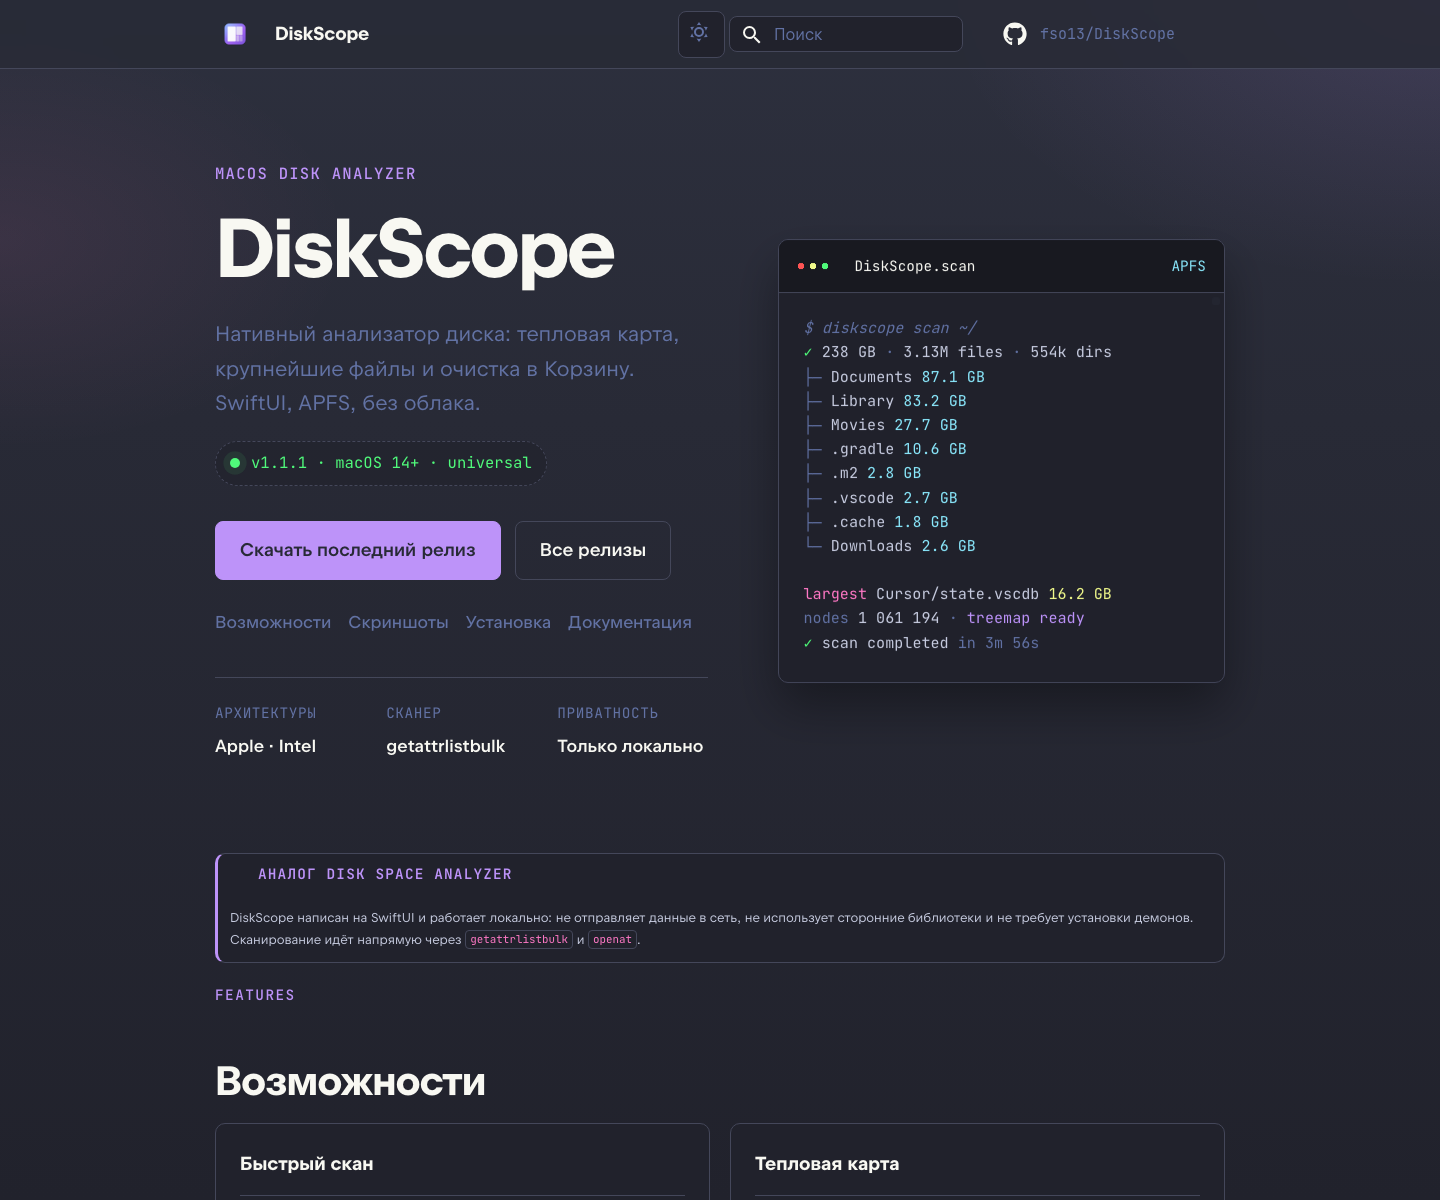
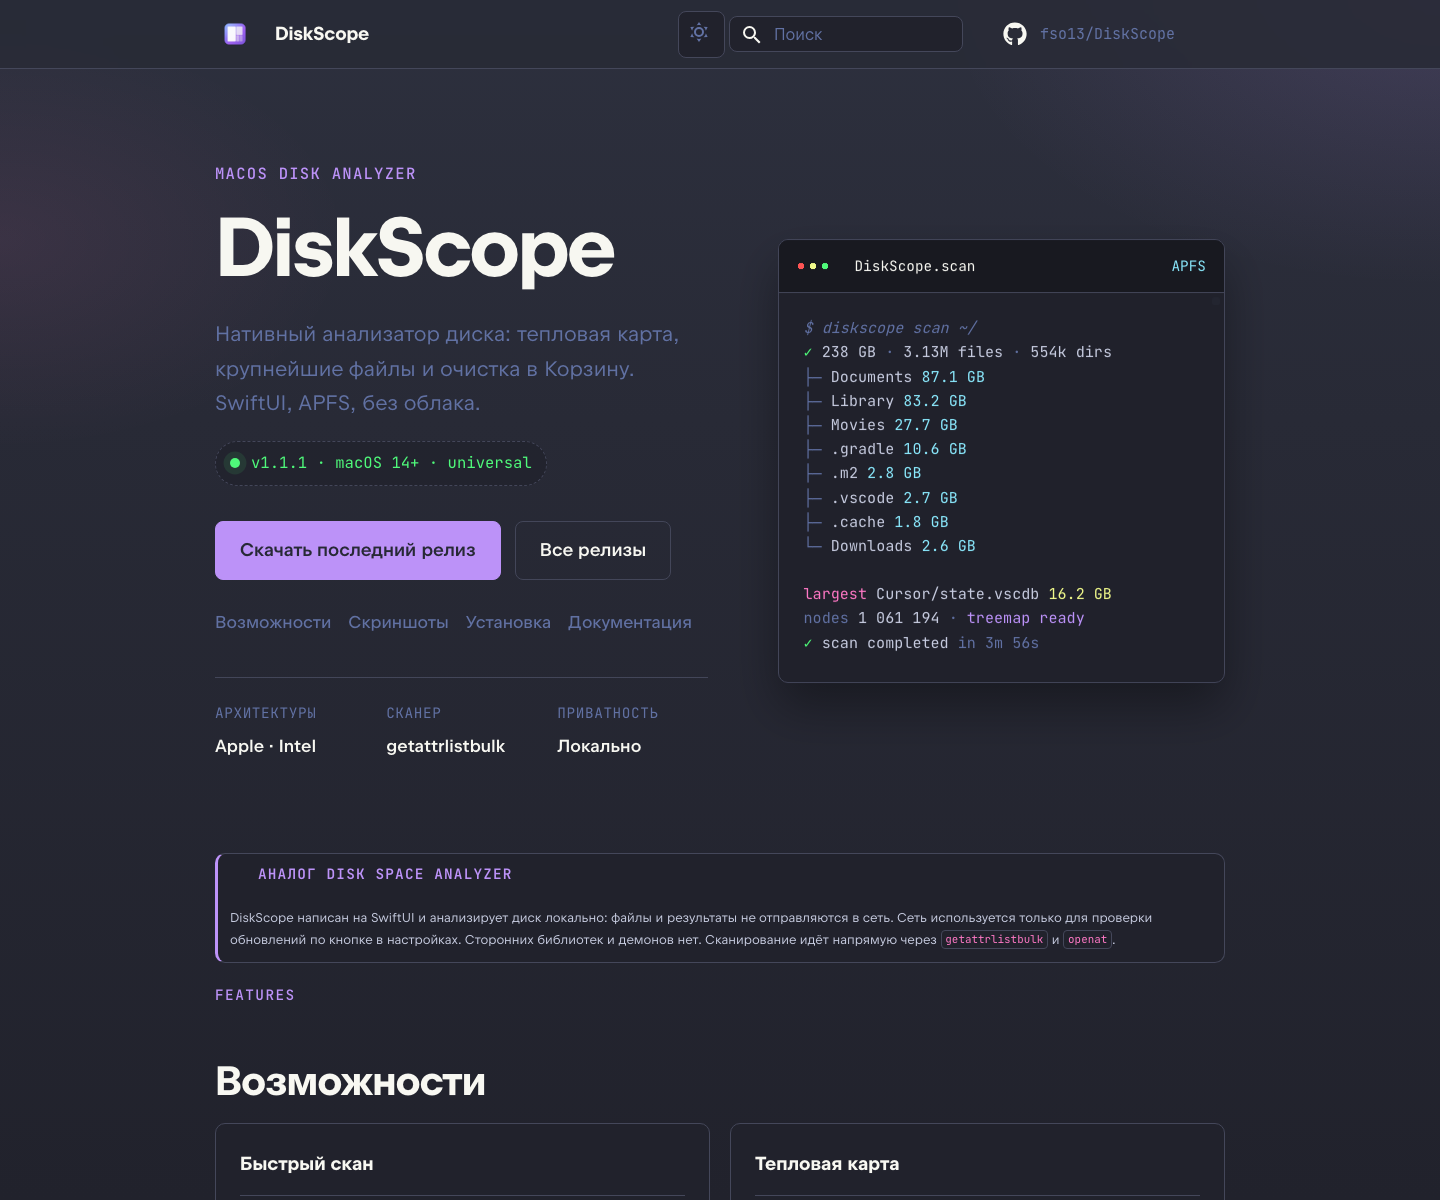
feat: add update checks to settings
Adds a GitHub Releases update checker with idle, checking, up-to-date, available and error states, a direct DMG download button, and version comparison tests. Updates privacy copy to clarify that network access is only used for manual update checks.

diff --git a/Sources/DiskScopeKit/UI/SettingsView.swift b/Sources/DiskScopeKit/UI/SettingsView.swift
@@ -4,6 +4,7 @@ import SwiftUI
 public struct SettingsView: View {
     @AppStorage(AppSettingsKeys.appearance) private var appearance = AppAppearance.system.rawValue
     @AppStorage(AppSettingsKeys.confirmTrash) private var confirmTrash = true
+    @StateObject private var updater = UpdateChecker()
 
     public init() {}
 
@@ -14,13 +15,14 @@ public struct SettingsView: View {
                 VStack(spacing: 14) {
                     appearanceSection
                     scanningSection
+                    updatesSection
                     aboutSection
                     resetRow
                 }
                 .padding(20)
             }
         }
-        .frame(width: 560, height: 600)
+        .frame(width: 560, height: 680)
         .background(Theme.background)
         .preferredColorScheme(AppAppearance(rawValue: appearance)?.colorScheme)
         .tint(Theme.accent)
@@ -113,6 +115,81 @@ public struct SettingsView: View {
         }
     }
 
+    private var updatesSection: some View {
+        SettingsCard(title: "Обновления", symbol: "arrow.triangle.2.circlepath") {
+            HStack(alignment: .center, spacing: 10) {
+                VStack(alignment: .leading, spacing: 3) {
+                    Text(updateTitle)
+                        .font(.system(size: 11.5, weight: .medium))
+                    Text(updateDetail)
+                        .font(.system(size: 10))
+                        .foregroundStyle(.secondary)
+                        .fixedSize(horizontal: false, vertical: true)
+                }
+                Spacer(minLength: 8)
+                updateAction
+            }
+
+            Text("Сеть используется только для этого запроса; файлы и результаты сканирования не отправляются.")
+                .font(.system(size: 10))
+                .foregroundStyle(.tertiary)
+                .fixedSize(horizontal: false, vertical: true)
+        }
+    }
+
+    @ViewBuilder
+    private var updateAction: some View {
+        switch updater.state {
+        case .checking:
+            ProgressView()
+                .controlSize(.small)
+                .frame(width: 86)
+        case .available(let release):
+            Button("Скачать") {
+                NSWorkspace.shared.open(release.downloadURL ?? release.pageURL)
+            }
+            .buttonStyle(.borderedProminent)
+            .controlSize(.small)
+        case .failed:
+            Button("Повторить") {
+                updater.check(currentVersion: version)
+            }
+            .buttonStyle(.bordered)
+            .controlSize(.small)
+        default:
+            Button("Проверить") {
+                updater.check(currentVersion: version)
+            }
+            .buttonStyle(.bordered)
+            .controlSize(.small)
+        }
+    }
+
+    private var updateTitle: String {
+        switch updater.state {
+        case .idle: return "Проверка обновлений"
+        case .checking: return "Проверяем обновления…"
+        case .upToDate: return "Установлена последняя версия"
+        case .available(let release): return "Доступна версия \(release.version)"
+        case .failed: return "Не удалось проверить"
+        }
+    }
+
+    private var updateDetail: String {
+        switch updater.state {
+        case .idle:
+            return "Текущая версия \(version). Запрос выполняется только по кнопке."
+        case .checking:
+            return "Запрашиваем GitHub Releases…"
+        case .upToDate(let current):
+            return "DiskScope \(current) — обновлений нет."
+        case .available:
+            return "Текущая версия \(version). Скачайте DMG и замените приложение."
+        case .failed(let message):
+            return message
+        }
+    }
+
     private var aboutSection: some View {
         SettingsCard(title: "О программе", symbol: "info.circle") {
             SettingsRow(label: "Версия", value: version)
@@ -134,7 +211,7 @@ public struct SettingsView: View {
             .controlSize(.small)
             .font(.system(size: 10.5, weight: .medium))
 
-            Text("DiskScope работает полностью локально и не отправляет данные в сеть.")
+            Text("Сканирование и файлы остаются локальными. Сеть используется только для проверки обновлений.")
                 .font(.system(size: 10))
                 .foregroundStyle(.tertiary)
                 .padding(.top, 1)

diff --git a/Sources/DiskScopeKit/App/UpdateChecker.swift b/Sources/DiskScopeKit/App/UpdateChecker.swift
@@ -1,0 +1,131 @@
+import Combine
+import Foundation
+
+@MainActor
+final class UpdateChecker: ObservableObject {
+    struct Release: Equatable, Identifiable {
+        let version: String
+        let pageURL: URL
+        let downloadURL: URL?
+
+        var id: String { version }
+    }
+
+    enum State: Equatable {
+        case idle
+        case checking
+        case upToDate(String)
+        case available(Release)
+        case failed(String)
+    }
+
+    @Published private(set) var state: State = .idle
+
+    private var task: Task<Void, Never>?
+
+    func check(currentVersion: String) {
+        guard state != .checking else { return }
+        task?.cancel()
+        state = .checking
+
+        task = Task { [weak self] in
+            do {
+                let release = try await Self.fetchLatest(currentVersion: currentVersion)
+                guard !Task.isCancelled else { return }
+                if Self.isNewer(release.version, than: currentVersion) {
+                    self?.state = .available(release)
+                } else {
+                    self?.state = .upToDate(currentVersion)
+                }
+            } catch is CancellationError {
+                return
+            } catch {
+                guard !Task.isCancelled else { return }
+                self?.state = .failed("Не удалось проверить обновления. Проверьте подключение и повторите.")
+            }
+        }
+    }
+
+    static func isNewer(_ candidate: String, than current: String) -> Bool {
+        let lhs = components(candidate)
+        let rhs = components(current)
+        for index in 0..<max(lhs.count, rhs.count) {
+            let left = index < lhs.count ? lhs[index] : 0
+            let right = index < rhs.count ? rhs[index] : 0
+            if left != right { return left > right }
+        }
+        return false
+    }
+
+    private static func components(_ raw: String) -> [Int] {
+        var value = raw.trimmingCharacters(in: .whitespacesAndNewlines)
+        if value.hasPrefix("v") || value.hasPrefix("V") {
+            value.removeFirst()
+        }
+        return value.split(separator: ".").map { part in
+            Int(part.prefix(while: { $0.isNumber })) ?? 0
+        }
+    }
+
+    private static func fetchLatest(currentVersion: String) async throws -> Release {
+        guard let url = URL(string: "https://api.github.com/repos/fso13/DiskScope/releases/latest") else {
+            throw UpdateError.invalidURL
+        }
+
+        var request = URLRequest(url: url)
+        request.timeoutInterval = 15
+        request.setValue("application/vnd.github+json", forHTTPHeaderField: "Accept")
+        request.setValue("2022-11-28", forHTTPHeaderField: "X-GitHub-Api-Version")
+        request.setValue("DiskScope/\(currentVersion)", forHTTPHeaderField: "User-Agent")
+
+        let (data, response) = try await URLSession.shared.data(for: request)
+        guard let http = response as? HTTPURLResponse else {
+            throw UpdateError.invalidResponse
+        }
+        guard (200..<300).contains(http.statusCode) else {
+            throw UpdateError.http(http.statusCode)
+        }
+
+        let payload = try JSONDecoder().decode(GitHubRelease.self, from: data)
+        guard let pageURL = URL(string: payload.htmlURL) else {
+            throw UpdateError.invalidURL
+        }
+
+        let version = payload.tagName.hasPrefix("v")
+            ? String(payload.tagName.dropFirst())
+            : payload.tagName
+        let asset = payload.assets.first { $0.name == "DiskScope-macos-universal.dmg" }
+            ?? payload.assets.first { $0.name.hasSuffix(".dmg") }
+        let downloadURL = asset.flatMap { URL(string: $0.browserDownloadURL) }
+
+        return Release(version: version, pageURL: pageURL, downloadURL: downloadURL)
+    }
+}
+
+private enum UpdateError: Error {
+    case invalidURL
+    case invalidResponse
+    case http(Int)
+}
+
+private struct GitHubRelease: Decodable {
+    let tagName: String
+    let htmlURL: String
+    let assets: [GitHubAsset]
+
+    enum CodingKeys: String, CodingKey {
+        case tagName = "tag_name"
+        case htmlURL = "html_url"
+        case assets
+    }
+}
+
+private struct GitHubAsset: Decodable {
+    let name: String
+    let browserDownloadURL: String
+
+    enum CodingKeys: String, CodingKey {
+        case name
+        case browserDownloadURL = "browser_download_url"
+    }
+}

diff --git a/Tests/DiskScopeKitTests/AppModelTests.swift b/Tests/DiskScopeKitTests/AppModelTests.swift
@@ -182,4 +182,12 @@ final class AppModelTests: XCTestCase {
         XCTAssertEqual(model.progress?.bytes, 1024)
         XCTAssertTrue(model.isScanning)
     }
+
+    func testUpdateVersionComparison() {
+        XCTAssertTrue(UpdateChecker.isNewer("v1.1.2", than: "1.1.1"))
+        XCTAssertFalse(UpdateChecker.isNewer("1.1.1", than: "1.1.1"))
+        XCTAssertTrue(UpdateChecker.isNewer("1.2", than: "1.1.9"))
+        XCTAssertFalse(UpdateChecker.isNewer("1.1.0", than: "1.1.1"))
+        XCTAssertTrue(UpdateChecker.isNewer("2.0.0", than: "1.99.99"))
+    }
 }

diff --git a/Sources/DiskScopeSnapshots/SnapshotsMain.swift b/Sources/DiskScopeSnapshots/SnapshotsMain.swift
@@ -151,7 +151,7 @@ final class SnapshotRenderer {
         let appearance = NSAppearance(named: dark ? .darkAqua : .aqua)
         NSApplication.shared.appearance = appearance
 
-        let settingsSize = CGSize(width: 560, height: 600)
+        let settingsSize = CGSize(width: 560, height: 680)
         let root = SettingsView()
             .frame(width: settingsSize.width, height: settingsSize.height)
         let hosting = NSHostingView(rootView: root)

diff --git a/README.md b/README.md
@@ -30,12 +30,14 @@ https://fso13.github.io/DiskScope/.
 - **Безопасность**: приложение читает только метаданные. Пишет оно лишь
   настройку «последняя папка» в UserDefaults и перемещает выбранные объекты в
   Корзину, выбранную папку или «Фото» — и только по явному подтверждению.
-- **Полностью локально**: нет сетевых запросов, телеметрии и сторонних
+- **Локальный анализ**: файлы и результаты не покидают Mac. Сеть используется
+  только для проверки обновлений по кнопке. Нет телеметрии и сторонних
   зависимостей.
 - **Кастомное окно**: title bar с нативными traffic lights, статусом и
   командной палитрой (`⌘K`).
-- **Настройки приложения** (`⌘,`): тема, подтверждение Корзины и сведения;
-  повторный анализ во время сканирования не запускается.
+- **Настройки приложения** (`⌘,`): тема, подтверждение Корзины, проверка
+  обновлений и сведения; повторный анализ во время сканирования не
+  запускается.
 - Поддержка светлой и тёмной темы, русского интерфейса, клавиатурных сокращений.
 
 | Крупнейшие | Типы файлов |

diff --git a/docs/index.md b/docs/index.md
@@ -23,7 +23,7 @@ hide:
 <div class="hero-meta" role="list">
 <div role="listitem"><span>Архитектуры</span><strong>Apple · Intel</strong></div>
 <div role="listitem"><span>Сканер</span><strong>getattrlistbulk</strong></div>
-<div role="listitem"><span>Приватность</span><strong>Только локально</strong></div>
+<div role="listitem"><span>Приватность</span><strong>Локально</strong></div>
 </div>
 </div>
 <aside class="hero-panel" aria-hidden="true">
@@ -50,8 +50,9 @@ hide:
 </section>
 
 !!! info "Аналог Disk Space Analyzer"
-    DiskScope написан на SwiftUI и работает локально: не отправляет данные в
-    сеть, не использует сторонние библиотеки и не требует установки демонов.
+    DiskScope написан на SwiftUI и анализирует диск локально: файлы и
+    результаты не отправляются в сеть. Сеть используется только для проверки
+    обновлений по кнопке в настройках. Сторонних библиотек и демонов нет.
     Сканирование идёт напрямую через `getattrlistbulk` и `openat`.
 
 <p class="eyebrow">Features</p>

diff --git a/CHANGELOG.md b/CHANGELOG.md
@@ -15,7 +15,8 @@
 - Пайплайн релиза теперь явно создаёт GitHub Release через `gh release
   create`, публикует тело из CHANGELOG и прямые ссылки на DMG/ZIP.
 - Настройки приложения (`⌘,`): оформление, подтверждение Корзины,
-  сведения о версии и ссылки; шестерёнка в title bar и пункт в палитре.
+  проверка обновлений через GitHub Releases, сведения о версии и ссылки;
+  шестерёнка в title bar и пункт в палитре.
 - Повторный анализ во время сканирования блокируется на уровне модели,
   меню и палитры команд.
 
@@ -28,7 +29,8 @@
 ### Включает
 
 - Возможности 1.1.0: медиа-поиск, перенос в папку и «Фото».
-- 41 XCTest: поиск медиа, переносы, модель и защита от повторного скана.
+- 42 XCTest: поиск медиа, переносы, модель, защита от повторного скана
+  и сравнение версий обновлений.
 
 ## [1.1.0] - 2026-10-20
 

diff --git a/docs/usage.md b/docs/usage.md
@@ -134,6 +134,7 @@
 - переключить оформление: системное, светлое или тёмное;
 - включить или отключить подтверждение перед перемещением в Корзину;
 - посмотреть версию, сборку, систему и архитектуру;
+- проверить обновления через GitHub Releases — только по кнопке;
 - открыть документацию или GitHub;
 - сбросить настройки.
 
@@ -141,6 +142,9 @@
 
 Повторный анализ во время уже идущего сканирования не запускается: запрос
 игнорируется, а остановить текущий скан можно кнопкой «Остановить».
+
+Сеть используется только для проверки обновлений. Файлы, имена и результаты
+сканирования никуда не отправляются.
 
 ## Что означают размеры
 

diff --git a/docs/build.md b/docs/build.md
@@ -93,7 +93,7 @@ MKDOCS_SITE_URL=http://localhost:8000/ .venv/bin/mkdocs build --strict
 
 ## Тесты
 
-41 XCTest-тест покрывают:
+42 XCTest-тест покрывают:
 
 - сканер и точность суммы против `du`;
 - агрегацию мелких файлов, пакеты, симлинки, Unicode-имена;
